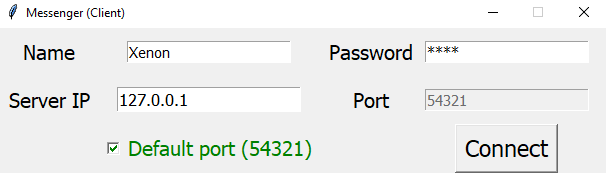
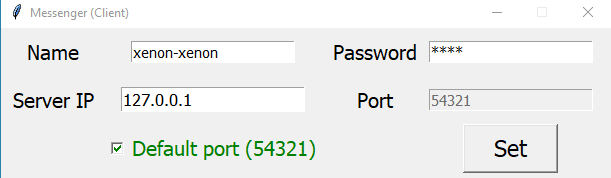
some client buttons name changed

diff --git a/ClientGUI.py b/ClientGUI.py
@@ -47,9 +47,9 @@ class LoginGui():
         self.default_port_check_button.config(fg="Green")
         self.default_port_check_button.grid(row=3 , column = 1)
 
-        self.connect_button = Button(main_win, text="Connect", font=("Tahoma", 17), command = self.create_chat_gui)
-        self.connect_button.config(activeforeground="Blue",activebackground="White")
-        self.connect_button.grid(row=3, column=3)
+        self.set_button = Button(main_win, text="   Set   ", font=("Tahoma", 17), command = self.create_chat_gui)
+        self.set_button.config(activeforeground="Blue",activebackground="White")
+        self.set_button.grid(row=3, column=3)
 
     #create a function for connect button
     def create_chat_gui(self):
@@ -127,8 +127,8 @@ class ChatGui():
                 if server_status is None:
                     self.chat_server_connection_status.config(text=("Server status : Not connected"), font=("Tahoma", "15"),fg="Red")
 
-                self.try_button = Button(self.chat_win, text="Try", font=("Tahoma", 15),command = self.connect_to_server)
-                self.try_button.pack()
+                self.connect_button = Button(self.chat_win, text="Connect", font=("Tahoma", 15),command = self.connect_to_server)
+                self.connect_button.pack()
 
                 self.chat_room_text_box = Text(self.chat_win)
                 self.chat_room_text_box.pack()
@@ -154,7 +154,7 @@ class ChatGui():
         except :
             messagebox.showerror("Error", "Connection failed")
         else:
-            self.try_button.config(state = "disabled")
+            self.connect_button.config(state = "disabled")
             self.send_message_text_box.config(state="normal")
             self.send_message_button.config(state="normal")
             self.chat_server_connection_status.config(text=("Server status : Connected"), font=("Tahoma", "15"),fg="Green")
@@ -172,7 +172,7 @@ class ChatGui():
             except ConnectionResetError :
                 messagebox.showerror("Error","Connection closed !")
                 self.chat_server_connection_status.config(text=("Server status : Not connected"), font=("Tahoma", "15"),fg="Red")
-                self.try_button.config(state="normal")
+                self.connect_button.config(state="normal")
                 break
 
     # send mesage function
@@ -189,7 +189,7 @@ class ChatGui():
                 self.client_socket.sendall(final_message.encode())
             except ConnectionResetError :
                 messagebox.showerror("Connection error","Connection is closed !")
-                self.try_button.config(state="normal")
+                self.connect_button.config(state="normal")
                 self.chat_server_connection_status.config(text=("Server status : Not connected"), font=("Tahoma", "15"),fg="Red")
             else:
                 self.send_message_text_box.delete("1.0", END)

diff --git a/README.md b/README.md
@@ -10,15 +10,13 @@
 # To Run The App :
 # Server Side : 
 - 1)Open `ServerGUI.py` and enter IP and port number, press `Start` for listening
-- ![Screenshot](images/server_img1.png) 
 - 2)Then start `ClientGUI.py` , connect the clients and you can see them in clients list 
-- ![Screenshot](images/server_img2.png) 
+- ![Screenshot](images/server_img1.png) 
 
 # Client side :
 - 1)Enter the information (no need for password just fill it with a character)
-- 2)Press `Connect`
+- 2)Press `Set`
 - ![Screenshot](images/client_img1_connect_box.png)
-- 3)Press `Try` to connect to the server
+- 3)Press `Connect` to connect to the server
+- 4)Then you can send and receive messages from connected clients
 - ![Screenshot](images/client_img2_connect_guide.png)
-- 4)Then you can send and receive messages from connected clients 
-- ![Screenshot](images/client_img3_connection_s.png)
